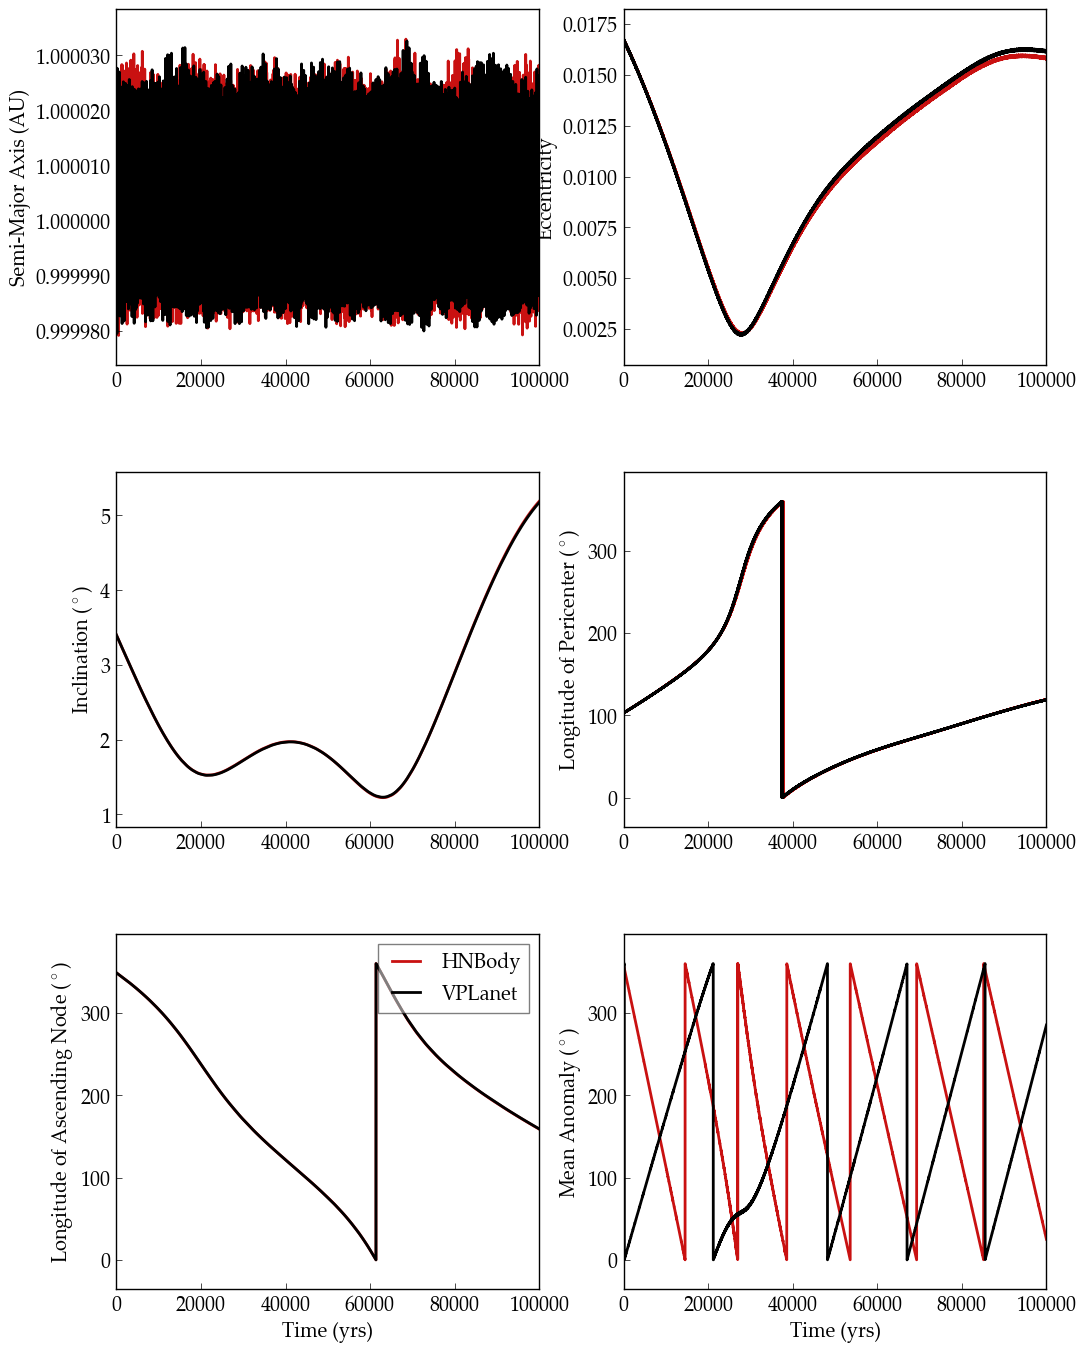
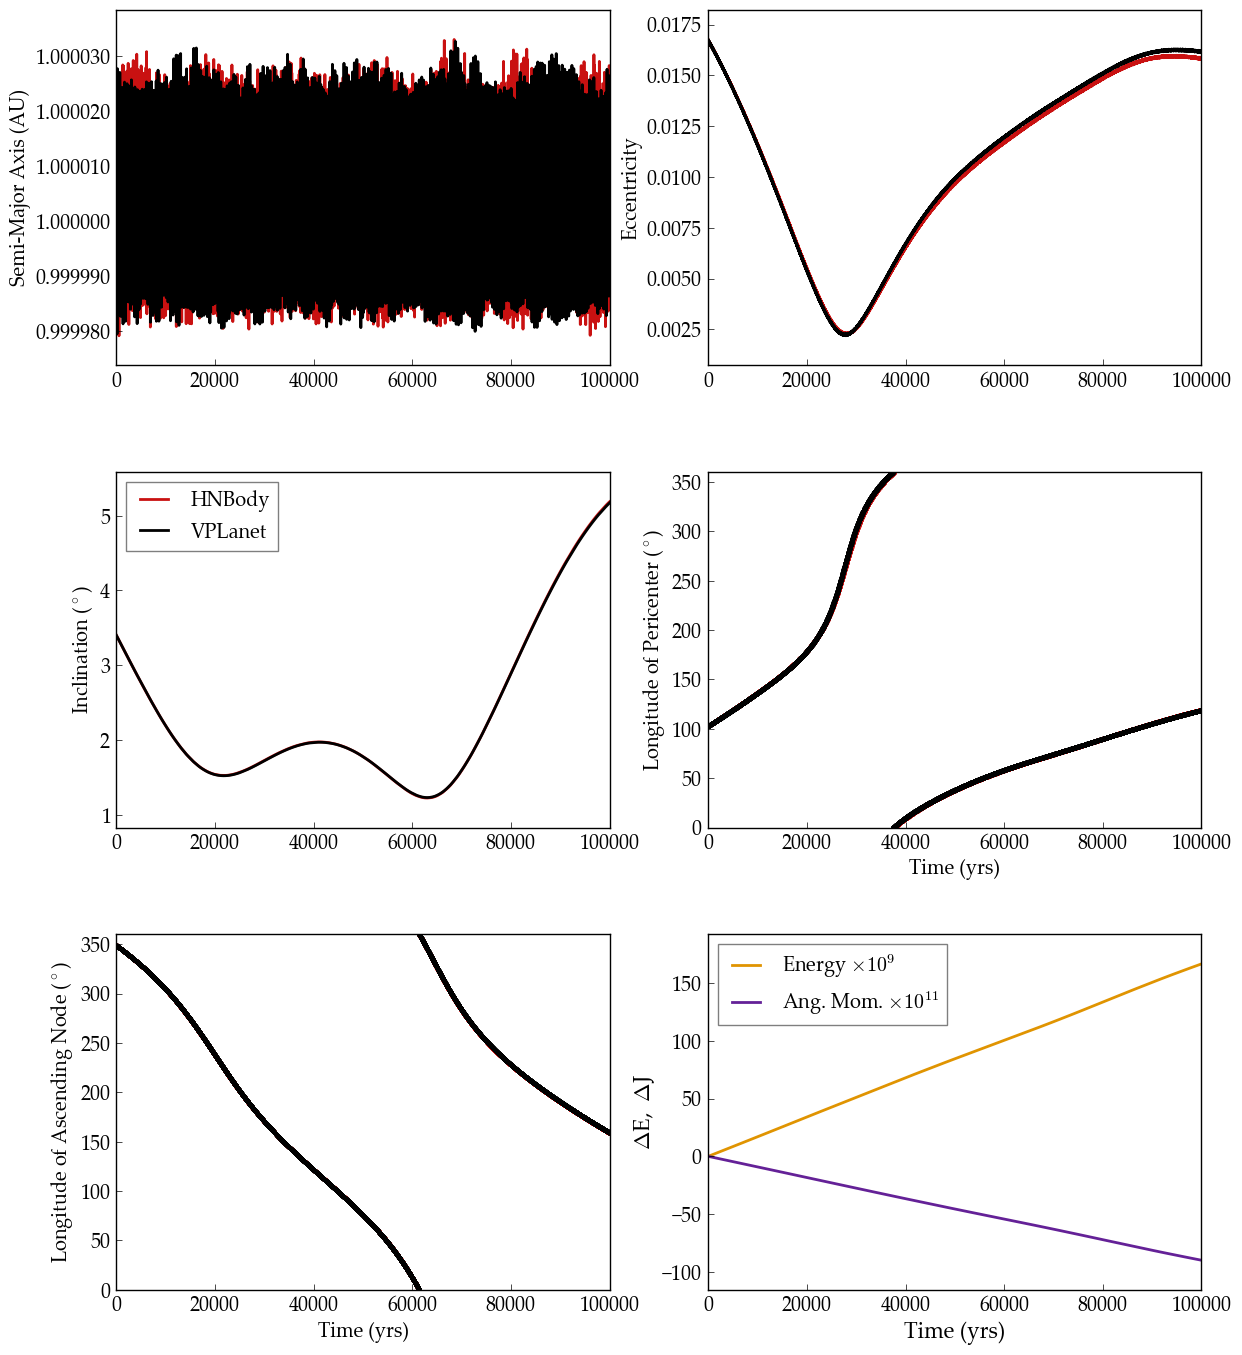
Tidied examples/SS_Nbody figure.

diff --git a/examples/SS_NBody/makeplot.py b/examples/SS_NBody/makeplot.py
@@ -50,16 +50,11 @@ def ReadHNBody(FileName):
 
 SS = vpl.GetOutput()
 
-#star = Planet()
-#Time, dt, star.a, star.e, star.i, star.LongP, star.LongA, star.MeanA, AngMom, OrbEnergy = np.loadtxt('SpiNBody.Star.forward', unpack=True)
-
 hnEarth = ReadHNBody('plan3.dat')
 hnEarth.Mass = 1.
 
 
-#hnarray = (hnEarth.Time <= EndTime)
-#array   = (hnEarth.Time <= EndTime)
-fig,([ax1,ax2],[ax3,ax4],[ax5,ax6])=plt.subplots(3,2,figsize=[12,16])
+fig,([ax1,ax2],[ax3,ax4],[ax5,ax6])=plt.subplots(3,2,figsize=[14,16])
 
 ax1.plot(hnEarth.Time,hnEarth.a,color=vpl.colors.red)
 ax1.plot(SS.Earth.Time,SS.Earth.SemiMajorAxis,'k')
@@ -75,27 +70,36 @@ ax2.set_ylabel('Eccentricity')
 plt.subplot(3,2,3)
 plt.plot(hnEarth.Time, hnEarth.i,color=vpl.colors.red)
 plt.plot(SS.Earth.Time, SS.Earth.SpiNBodyInc,'k')
-
 #plt.xlabel('Time (yrs)')
+plt.legend(['HNBody','VPLanet'],loc='upper left')
 plt.ylabel('Inclination ($^\circ$)')
 
 plt.subplot(3,2,4)
-plt.plot(hnEarth.Time, hnEarth.LongP,color=vpl.colors.red)
-plt.plot(SS.Earth.Time, SS.Earth.LongP,'k')
+plt.plot(hnEarth.Time, hnEarth.LongP,color=vpl.colors.red,marker='.',linewidth=0)
+plt.plot(SS.Earth.Time, SS.Earth.LongP,'k',marker='.',linewidth=0)
+plt.xlabel('Time (yrs)')
+plt.ylim(0,360)
 plt.ylabel('Longitude of Pericenter ($^\circ$)')
 
 plt.subplot(3,2,5)
-plt.plot(hnEarth.Time, hnEarth.LongA,color=vpl.colors.red)
-plt.plot(SS.Earth.Time, SS.Earth.SpiNBodyLongA,'k')
+plt.plot(hnEarth.Time, hnEarth.LongA,color=vpl.colors.red,marker='.',linewidth=0)
+plt.plot(SS.Earth.Time, SS.Earth.SpiNBodyLongA,color='k',marker='.',linewidth=0)
+plt.ylim(0,360)
 plt.ylabel('Longitude of Ascending Node ($^\circ$)')
 plt.xlabel('Time (yrs)')
-plt.legend(['HNBody','VPLanet'])
+
+
+etot = (SS.Sun.TotOrbEnergy/SS.Sun.TotOrbEnergy[0] - 1)*1e9
+jtot = (SS.Sun.TotAngMom/SS.Sun.TotAngMom[0] - 1)*1e11
 
 plt.subplot(3,2,6)
-plt.plot(hnEarth.Time, hnEarth.MeanA,color=vpl.colors.red)
-plt.plot(SS.Earth.Time, SS.Earth.MeanAnomaly,'k')
-plt.ylabel('Mean Anomaly ($^\circ$)')
+plt.plot(SS.Sun.Time,etot,color=vpl.colors.orange,label=(r'Energy $\times 10^9$'))
+plt.plot(SS.Sun.Time,jtot,color=vpl.colors.purple,label=(r'Ang. Mom. $\times 10^{11}$'))
+plt.xlabel('Time (yr)', fontsize=16)
+plt.ylabel(r'$(\Delta E / E - 1)/10^{9}$', fontsize=16)
+plt.ylabel(r"$\Delta$E,  $\Delta$J")
 plt.xlabel('Time (yrs)')
+plt.legend(loc='upper left')
 
 if (sys.argv[1] == 'pdf'):
     plt.savefig('SS_NBody.pdf')
@@ -103,21 +107,3 @@ if (sys.argv[1] == 'png'):
     plt.savefig('SS_NBody.png')
 
 plt.close()
-
-#Plot the fractional angular momentum over time
-#fig,([ax1,ax2])=plt.subplots(2,1,figsize=[8,8])
-
-#plt.subplot(2,1,1)
-#dEta=(AngMom/AngMom[0]-1)
-#plt.plot(Time,dEta*1e11)
-#plt.ylabel(r'$(\Delta L / L - 1)/10^{11}$', fontsize=16)
-
-#Now for energy
-#plt.subplot(2,1,2)
-#Energy = OrbEnergy
-#dEnergy = (Energy/Energy[0]-1)
-#plt.plot(Time,dEnergy*1e9,'r')
-#plt.xlabel('Time (yr)', fontsize=16)
-#plt.ylabel(r'$(\Delta E / E - 1)/10^{9}$', fontsize=16)
-#plt.savefig('SpiNBody_Conservation.pdf')
-#plt.savefig('SpiNBody_Conservation.png')
